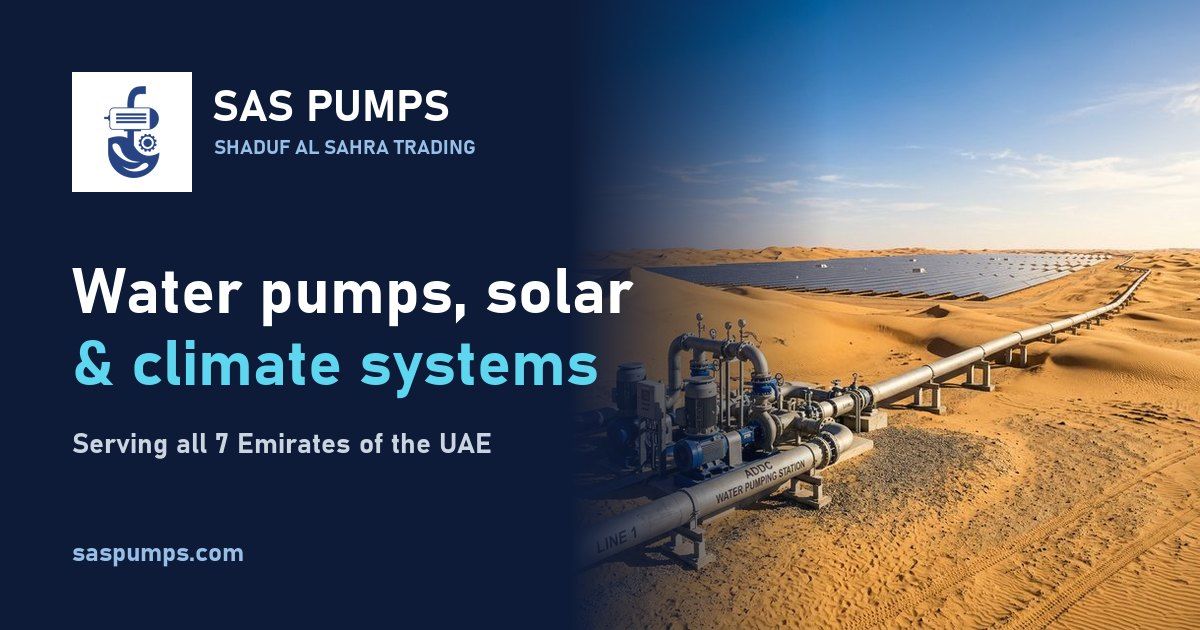
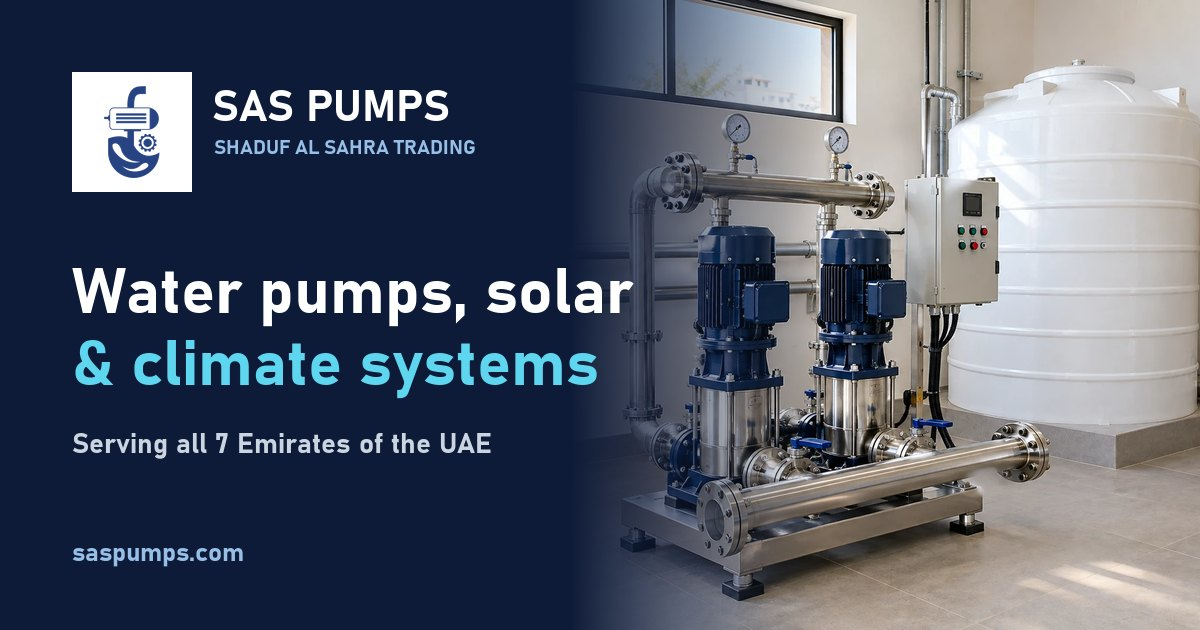
Replace hero with booster pump set photo, add solar heater photo
- Home hero now shows a booster pump set (responsive 720/1200 WebP + JPEG)
- Solar water heaters page gets a two-column hero with a rooftop photo
- Rebuilt OG share image with the pump photo; updated sitemap images and
  structured data
- Removed the old desert pumping-station photo

diff --git a/solar-water-heaters.html b/solar-water-heaters.html
@@ -57,7 +57,8 @@
           "breadcrumb": {
             "@id": "https://saspumps.com/solar-water-heaters.html#breadcrumb"
           },
-          "inLanguage": "en"
+          "inLanguage": "en",
+          "primaryImageOfPage": "https://saspumps.com/assets/img/solar-water-heater-rooftop.jpg"
         },
         {
           "@type": "BreadcrumbList",
@@ -125,7 +126,8 @@
           ],
           "name": "Solar water heater supply and installation",
           "serviceType": "Solar water heaters",
-          "description": "Solar water heating systems for homes and businesses, sized, supplied and installed across the UAE."
+          "description": "Solar water heating systems for homes and businesses, sized, supplied and installed across the UAE.",
+          "image": "https://saspumps.com/assets/img/solar-water-heater-rooftop.jpg"
         },
         {
           "@type": "FAQPage",
@@ -263,12 +265,24 @@
                         <li><span aria-current="page">Solar water heaters</span></li>
                     </ol>
                 </nav>
-                <p class="eyebrow">Solar water heaters</p>
+                <div class="page-hero-grid">
+                    <div>
+                        <p class="eyebrow">Solar water heaters</p>
                 <h1 id="page-title">Solar water heaters for UAE homes <span class="accent">and businesses.</span></h1>
                 <p class="lead">Heat water with the sun instead of electricity. SAS Pumps (Shaduf Al Sahra Trading) supplies and installs solar water heating systems sized to your home or building, in Dubai, Sharjah, Ajman and all 7 Emirates.</p>
                 <div class="hero-actions">
                     <a class="btn btn-primary btn-lg" href="#contact">Request a quote <svg class="i" aria-hidden="true"><use href="#i-arrow"/></svg></a>
                     <a class="btn btn-ghost btn-lg" href="https://wa.me/971581670324" target="_blank" rel="noopener"><svg class="i i-brand" aria-hidden="true"><use href="#i-whatsapp"/></svg> WhatsApp us</a>
+                </div>
+                    </div>
+                    <figure class="page-hero-media">
+                        <picture>
+                            <source srcset="/assets/img/solar-water-heater-rooftop-720.webp 720w, /assets/img/solar-water-heater-rooftop.webp 1200w"
+                                sizes="(max-width: 900px) 100vw, 560px" type="image/webp">
+                            <img src="/assets/img/solar-water-heater-rooftop.jpg" width="1200" height="900" fetchpriority="high"
+                                alt="Evacuated-tube solar water heater with a white storage tank on a villa rooftop in the UAE, with palm trees behind">
+                        </picture>
+                    </figure>
                 </div>
             </div>
         </section>

diff --git a/index.html b/index.html
@@ -47,7 +47,7 @@
     <link rel="stylesheet"
         href="https://fonts.googleapis.com/css2?family=Archivo:ital,wdth,wght@0,62..125,300..900;1,62..125,300..900&display=swap">
 
-    <link rel="preload" as="image" href="/assets/img/solar-pumping-station.webp" type="image/webp" fetchpriority="high">
+    <link rel="preload" as="image" href="/assets/img/booster-pump-set.webp" imagesrcset="/assets/img/booster-pump-set-720.webp 720w, /assets/img/booster-pump-set.webp 1200w" imagesizes="(max-width: 900px) 100vw, 560px" type="image/webp" fetchpriority="high">
     <link rel="stylesheet" href="/styles.css">
 
     <script type="application/ld+json">
@@ -125,7 +125,7 @@
           "name": "SAS Pumps (Shaduf) | Water Pumps & Solar Heaters UAE",
           "isPartOf": { "@id": "https://saspumps.com/#website" },
           "about": { "@id": "https://saspumps.com/#organization" },
-          "primaryImageOfPage": "https://saspumps.com/assets/img/solar-pumping-station.jpg",
+          "primaryImageOfPage": "https://saspumps.com/assets/img/booster-pump-set.jpg",
           "inLanguage": "en"
         },
         {
@@ -235,9 +235,10 @@
                 </div>
                 <figure class="hero-media">
                     <picture>
-                        <source srcset="/assets/img/solar-pumping-station.webp" type="image/webp">
-                        <img src="/assets/img/solar-pumping-station.jpg" width="640" height="640" fetchpriority="high"
-                            alt="Water pumping station with a pipeline and solar farm in the UAE desert">
+                        <source srcset="/assets/img/booster-pump-set-720.webp 720w, /assets/img/booster-pump-set.webp 1200w"
+                            sizes="(max-width: 900px) 100vw, 560px" type="image/webp">
+                        <img src="/assets/img/booster-pump-set.jpg" width="1200" height="900" fetchpriority="high"
+                            alt="Twin booster pump set with blue electric motors and stainless-steel pipework beside a water storage tank in a villa plant room">
                     </picture>
                     <div class="float-card float-card--top">
                         <span class="float-icon"><svg class="i" aria-hidden="true"><use href="#i-solar"/></svg></span>

diff --git a/styles.css b/styles.css
@@ -448,7 +448,7 @@ main > .section:last-child { padding-bottom: clamp(56px, 7vw, 96px); }
 
 .hero-media {
     position: relative;
-    aspect-ratio: 4 / 4.4;
+    aspect-ratio: 5 / 4.4;
 }
 .hero-media picture,
 .hero-media img {
@@ -1124,6 +1124,21 @@ main > .section:last-child { padding-bottom: clamp(56px, 7vw, 96px); }
     margin-bottom: 18px;
 }
 .page-hero .lead { margin-bottom: 0; }
+.page-hero-grid {
+    display: grid;
+    grid-template-columns: 1.1fr .9fr;
+    align-items: center;
+    gap: clamp(32px, 5vw, 64px);
+}
+.page-hero-media img {
+    width: 100%;
+    height: auto;
+    aspect-ratio: 4 / 3;
+    object-fit: cover;
+    border-radius: var(--radius-lg);
+    box-shadow: var(--shadow-lg);
+}
+@media (max-width: 900px) { .page-hero-grid { grid-template-columns: 1fr; } }
 
 .breadcrumb ol {
     display: flex;
